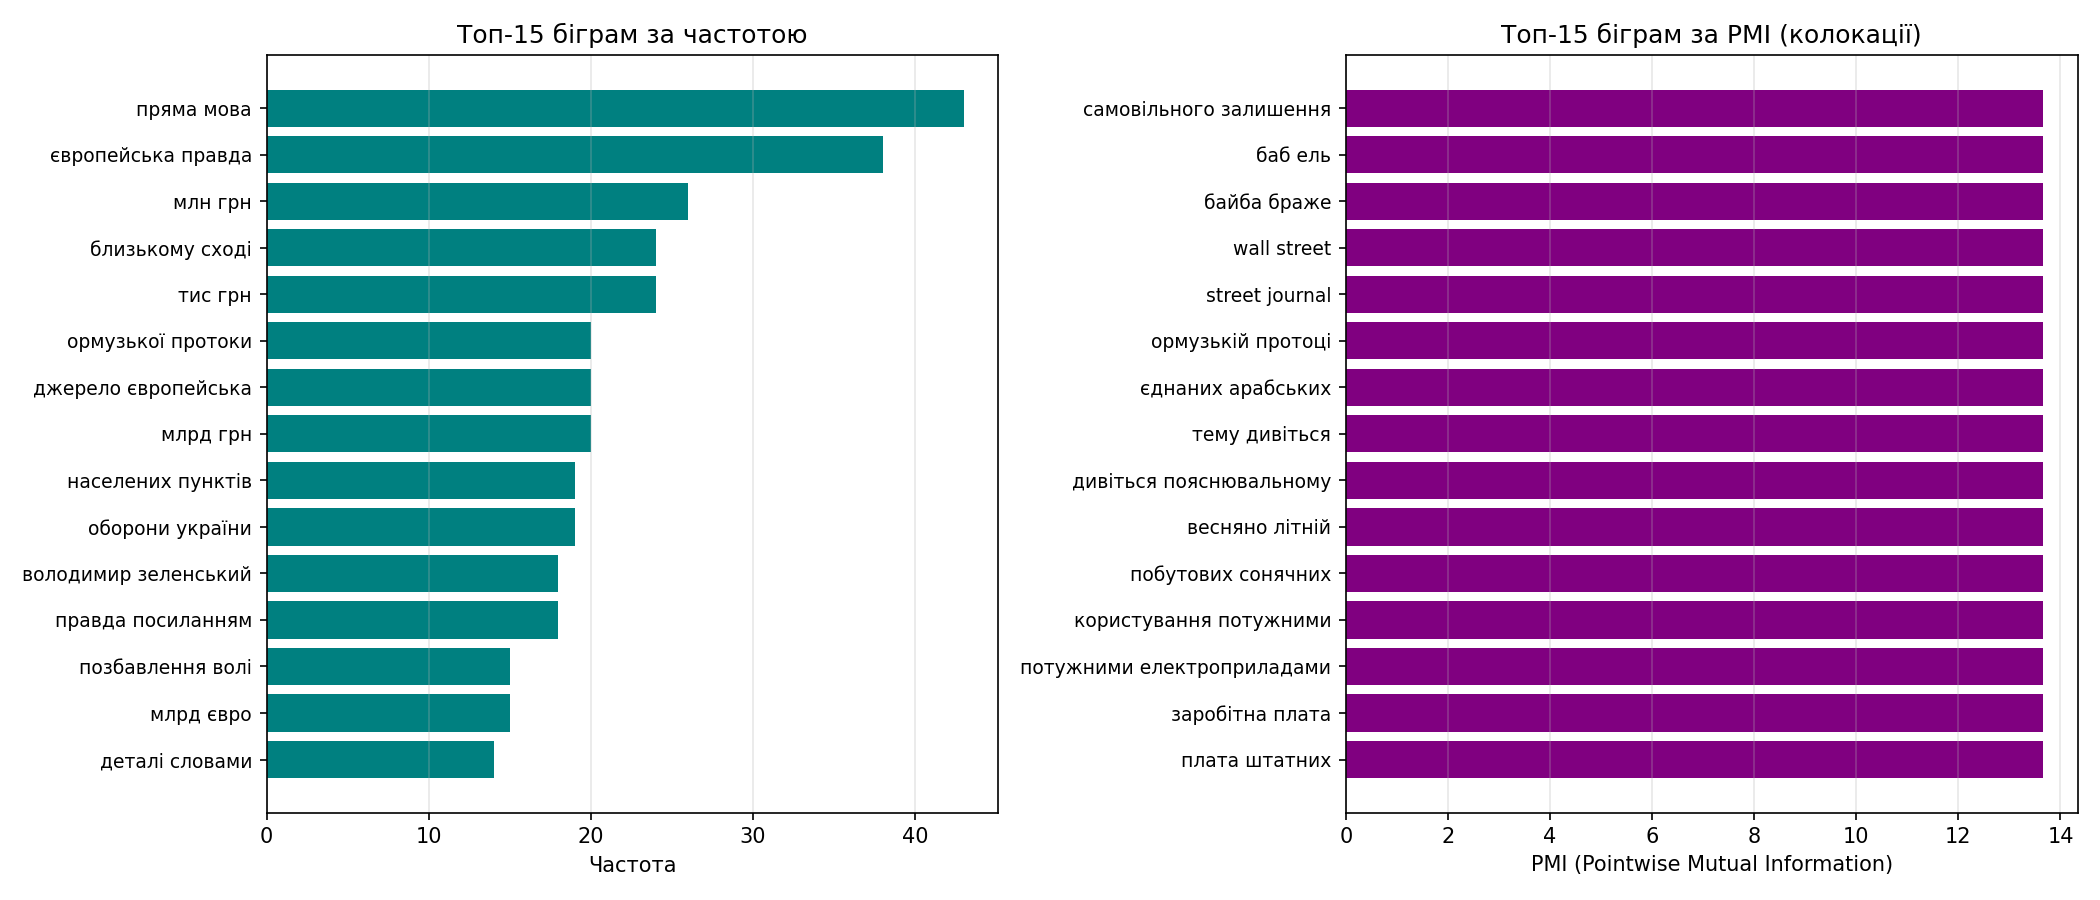
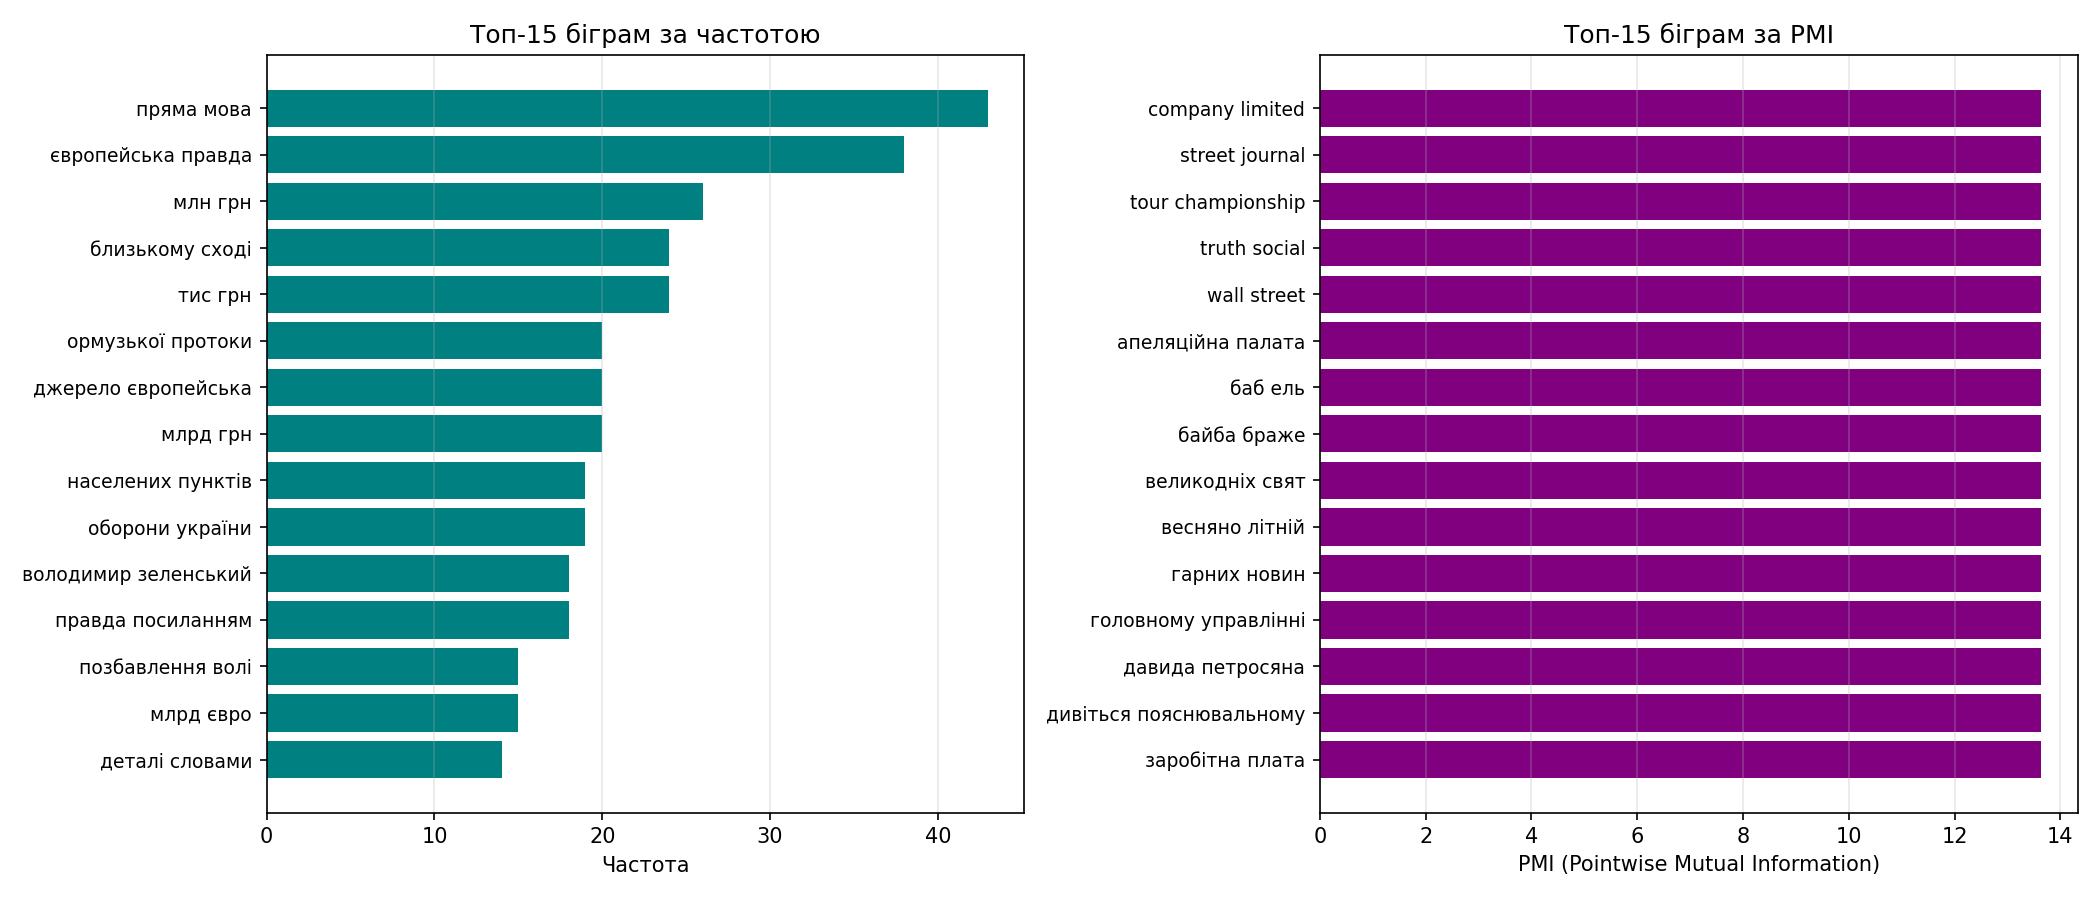
refactored bigram analysis by using nltk

diff --git a/news_parsing/text_analysis.py b/news_parsing/text_analysis.py
@@ -7,6 +7,7 @@ import pandas as pd
 import numpy as np
 import matplotlib.pyplot as plt
 from pathlib import Path
+from nltk.collocations import BigramCollocationFinder, BigramAssocMeasures
 
 script_dir = Path(__file__).parent
 dir_path = script_dir / "text_analysis/"
@@ -120,7 +121,7 @@ def analyze_tfidf(documents):
 
     # Збереження результатів
     tfidf_df = pd.DataFrame(top_words, columns=["Слово", "TF-IDF"])
-    tfidf_df.to_csv(f"{dir_path}tfidf_scores.csv", index=False, encoding="utf-8-sig")
+    tfidf_df.to_csv(f"{dir_path}/tfidf_scores.csv", index=False, encoding="utf-8-sig")
 
     # Візуалізація
     _, ax = plt.subplots(figsize=(12, 8))
@@ -136,10 +137,10 @@ def analyze_tfidf(documents):
     ax.grid(axis="x", alpha=0.3)
 
     plt.tight_layout()
-    plt.savefig(f"{dir_path}tfidf_chart.png", dpi=150)
+    plt.savefig(f"{dir_path}/tfidf_chart.png", dpi=150)
     plt.close()
 
-    print(f"\nГрафік збережено: {dir_path}tfidf_chart.png")
+    print(f"\nГрафік збережено: {dir_path}/tfidf_chart.png")
 
     return corpus_tfidf
 
@@ -230,14 +231,16 @@ def compute_lexical_dispersion(documents, target_words):
     ax.grid(axis="x", alpha=0.3)
 
     plt.tight_layout()
-    plt.savefig(f"{dir_path}lexical_dispersion.png", dpi=150)
+    plt.savefig(f"{dir_path}/lexical_dispersion.png", dpi=150)
     plt.close()
 
     # Збереження статистики
     disp_df = pd.DataFrame(dispersion_stats)
-    disp_df.to_csv(f"{dir_path}dispersion_stats.csv", index=False, encoding="utf-8-sig")
+    disp_df.to_csv(
+        f"{dir_path}/dispersion_stats.csv", index=False, encoding="utf-8-sig"
+    )
 
-    print(f"\nГрафік дисперсії збережено: {dir_path}lexical_dispersion.png")
+    print(f"\nГрафік дисперсії збережено: {dir_path}/lexical_dispersion.png")
 
     return dispersion_stats, word_positions
 
@@ -315,16 +318,16 @@ def analyze_word_length_distribution(documents):
     ax3.set_ylim(0, 1.05)
 
     plt.tight_layout()
-    plt.savefig(f"{dir_path}word_length_distribution.png", dpi=150)
+    plt.savefig(f"{dir_path}/word_length_distribution.png", dpi=150)
     plt.close()
 
     # Збереження даних
     dist_df = pd.DataFrame(distribution_data)
     dist_df.to_csv(
-        f"{dir_path}word_length_distribution.csv", index=False, encoding="utf-8-sig"
+        f"{dir_path}/word_length_distribution.csv", index=False, encoding="utf-8-sig"
     )
 
-    print(f"\nГрафіки збережено: {dir_path}word_length_distribution.png")
+    print(f"\nГрафіки збережено: {dir_path}/word_length_distribution.png")
 
     return distribution_data
 
@@ -334,72 +337,38 @@ def analyze_word_length_distribution(documents):
 # =============================================================================
 
 
-def extract_bigrams(words):
-    return [(words[i], words[i + 1]) for i in range(len(words) - 1)]
-
-
-def compute_bigram_probability(bigrams, word_freq):
-    """
-    Обчислення ймовірності біграм P(w2|w1) = P(w1,w2) / P(w1)
-    """
-    bigram_freq = Counter(bigrams)
-
-    bigram_probs = {}
-    for bigram, count in bigram_freq.items():
-        w1, w2 = bigram
-        # Умовна ймовірність P(w2|w1)
-        prob = count / word_freq[w1] if word_freq[w1] > 0 else 0
-        bigram_probs[bigram] = {
-            "count": count,
-            "conditional_prob": prob,
-            "w1_freq": word_freq[w1],
-            "w2_freq": word_freq[w2],
-        }
-
-    return bigram_probs
-
-
 def analyze_bigrams(documents):
     print("\n" + "=" * 60)
     print("БІГРАМНИЙ АНАЛІЗ")
     print("=" * 60)
 
-    # Збираємо всі слова та біграми
-    all_words = []
-    all_bigrams = []
+    # Збираємо всі слова
+    all_words = [word for doc in documents for word in doc["words"]]
 
-    for doc in documents:
-        all_words.extend(doc["words"])
-        all_bigrams.extend(extract_bigrams(doc["words"]))
+    # Створюємо BigramCollocationFinder
+    finder = BigramCollocationFinder.from_words(all_words)
+    finder.apply_freq_filter(3)  # Фільтруємо рідкісні біграми
 
+    bigram_measures = BigramAssocMeasures()
     word_freq = Counter(all_words)
-    bigram_freq = Counter(all_bigrams)
-
     total_words = len(all_words)
-    total_bigrams = len(all_bigrams)
+    total_bigrams = total_words - 1
 
     print(f"\nЗагальна кількість слів: {total_words}")
     print(f"Загальна кількість біграм: {total_bigrams}")
-    print(f"Унікальних біграм: {len(bigram_freq)}")
+    print(f"Унікальних біграм (freq>=3): {len(list(finder.ngram_fd.items()))}")
 
     # Топ-30 найчастіших біграм
-    top_bigrams = bigram_freq.most_common(30)
+    top_bigrams = finder.ngram_fd.most_common(30)
 
     print("\nТоп-30 найчастіших біграм:")
     print("-" * 60)
 
     bigram_data = []
-    for i, (bigram, count) in enumerate(top_bigrams, 1):
-        w1, w2 = bigram
-        # Ймовірність біграми P(w1, w2)
+    for i, ((w1, w2), count) in enumerate(top_bigrams, 1):
         joint_prob = count / total_bigrams
-        # Умовна ймовірність P(w2|w1)
         cond_prob = count / word_freq[w1]
-        # Ймовірність слів окремо
-        p_w1 = word_freq[w1] / total_words
-        p_w2 = word_freq[w2] / total_words
-        # Pointwise Mutual Information
-        pmi = math.log2(joint_prob / (p_w1 * p_w2)) if p_w1 > 0 and p_w2 > 0 else 0
+        pmi = finder.score_ngram(bigram_measures.pmi, w1, w2)
 
         bigram_data.append(
             {
@@ -416,22 +385,18 @@ def analyze_bigrams(documents):
             f"P(w2|w1)={cond_prob:.3f} | PMI={pmi:.2f}"
         )
 
-    # Топ-20 за PMI (сильні колокації)
-    all_bigram_stats = []
-    for bigram, count in bigram_freq.items():
-        if count >= 3:  # Фільтруємо рідкісні біграми
-            w1, w2 = bigram
-            joint_prob = count / total_bigrams
-            p_w1 = word_freq[w1] / total_words
-            p_w2 = word_freq[w2] / total_words
-            pmi = math.log2(joint_prob / (p_w1 * p_w2)) if p_w1 > 0 and p_w2 > 0 else 0
-            all_bigram_stats.append(
-                {"bigram": f"{w1} {w2}", "count": count, "pmi": pmi}
-            )
+    # Топ-25 за PMI
+    top_pmi_raw = finder.nbest(bigram_measures.pmi, 25)
+    top_pmi = [
+        {
+            "bigram": f"{w1} {w2}",
+            "count": finder.ngram_fd[(w1, w2)],
+            "pmi": finder.score_ngram(bigram_measures.pmi, w1, w2),
+        }
+        for w1, w2 in top_pmi_raw
+    ]
 
-    top_pmi = sorted(all_bigram_stats, key=lambda x: x["pmi"], reverse=True)[:20]
-
-    print("\nТоп-20 біграм за PMI (сильні колокації):")
+    print("\nТоп-25 біграм за PMI:")
     print("-" * 50)
     for i, item in enumerate(top_pmi, 1):
         print(
@@ -466,23 +431,23 @@ def analyze_bigrams(documents):
     ax2.set_yticklabels(pmi_labels, fontsize=9)
     ax2.invert_yaxis()
     ax2.set_xlabel("PMI (Pointwise Mutual Information)")
-    ax2.set_title("Топ-15 біграм за PMI (колокації)")
+    ax2.set_title("Топ-15 біграм за PMI")
     ax2.grid(axis="x", alpha=0.3)
 
     plt.tight_layout()
-    plt.savefig(f"{dir_path}bigram_analysis.png", dpi=150)
+    plt.savefig(f"{dir_path}/bigram_analysis.png", dpi=150)
     plt.close()
 
     # Збереження даних
     bigram_df = pd.DataFrame(bigram_data)
     bigram_df.to_csv(
-        f"{dir_path}bigram_frequency.csv", index=False, encoding="utf-8-sig"
+        f"{dir_path}/bigram_frequency.csv", index=False, encoding="utf-8-sig"
     )
 
     pmi_df = pd.DataFrame(top_pmi)
-    pmi_df.to_csv(f"{dir_path}bigram_pmi.csv", index=False, encoding="utf-8-sig")
+    pmi_df.to_csv(f"{dir_path}/bigram_pmi.csv", index=False, encoding="utf-8-sig")
 
-    print(f"\nГрафіки збережено: {dir_path}bigram_analysis.png")
+    print(f"\nГрафіки збережено: {dir_path}/bigram_analysis.png")
 
     return bigram_data, top_pmi
 
@@ -530,7 +495,7 @@ def main():
     print("\n" + "=" * 60)
     print("АНАЛІЗ ЗАВЕРШЕНО")
     print("=" * 60)
-    print(f"\nРезультати збережено в папці: {dir_path}")
+    print(f"\nРезультати збережено в папці: {dir_path}/")
     print("Файли:")
     print("  - tfidf_scores.csv - TF-IDF оцінки")
     print("  - tfidf_chart.png - Візуалізація TF-IDF")
